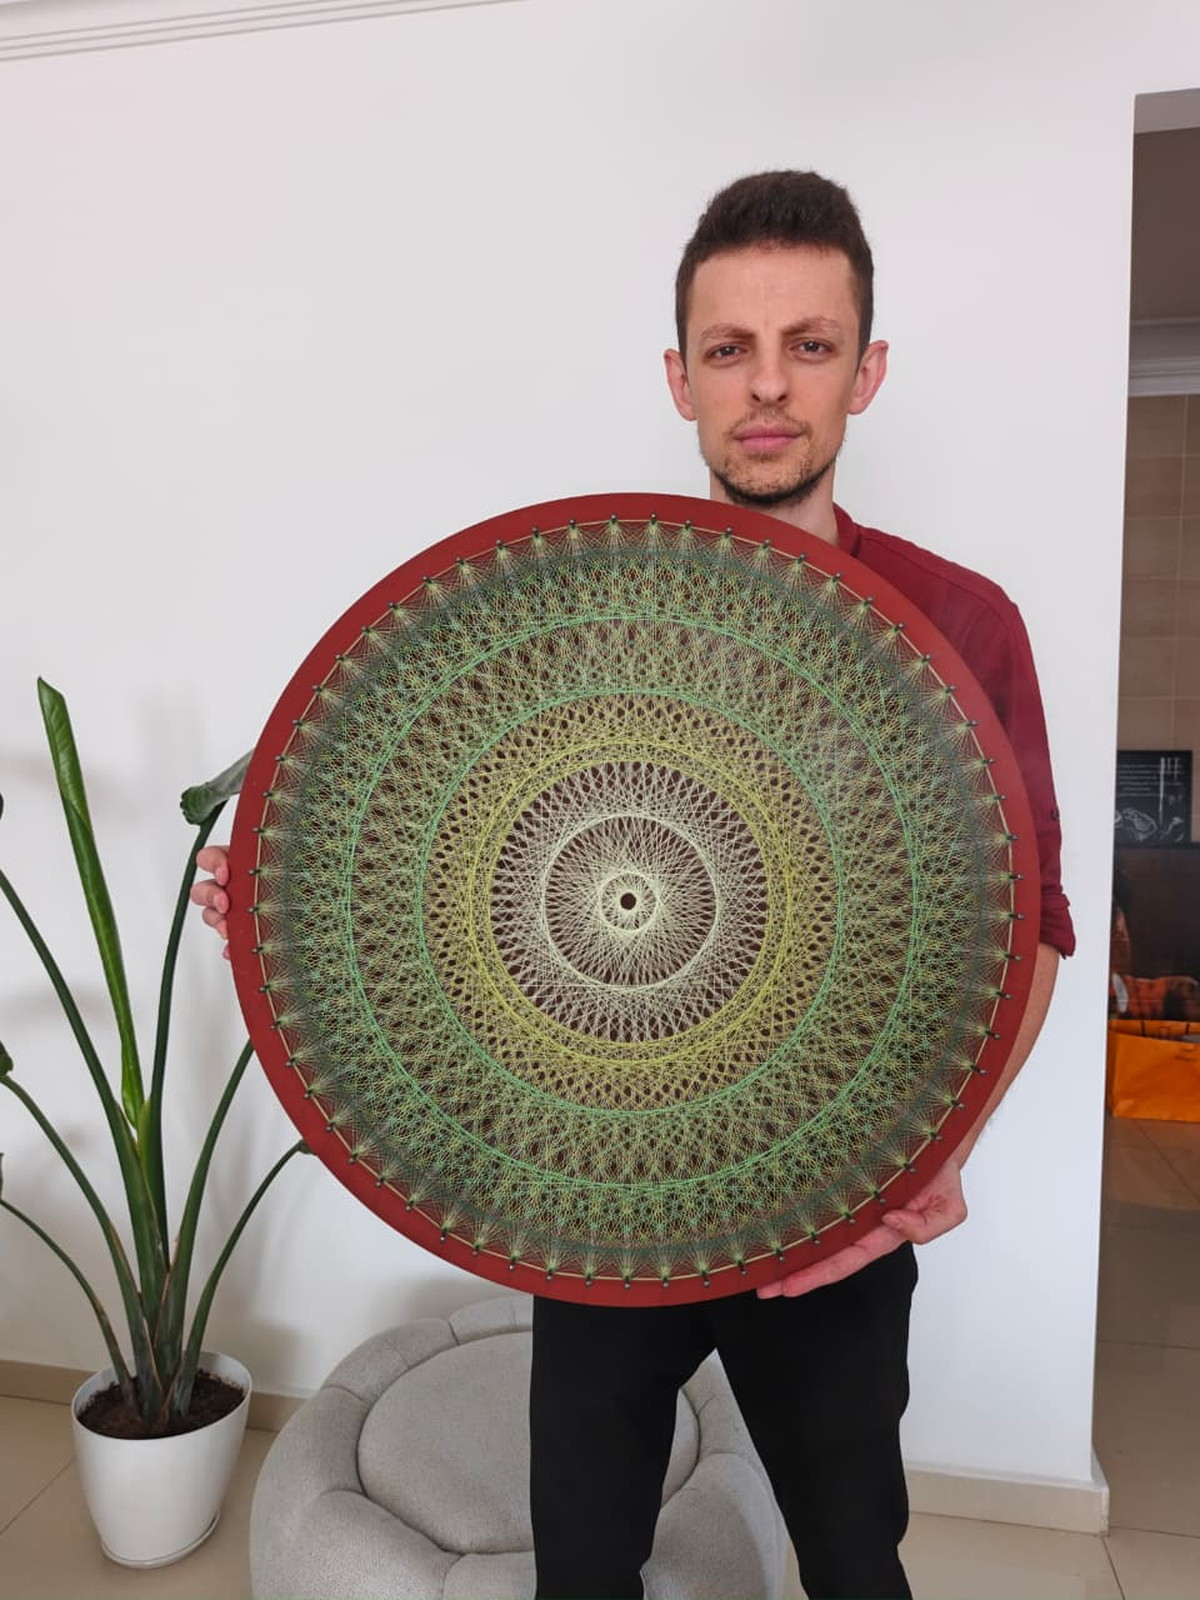
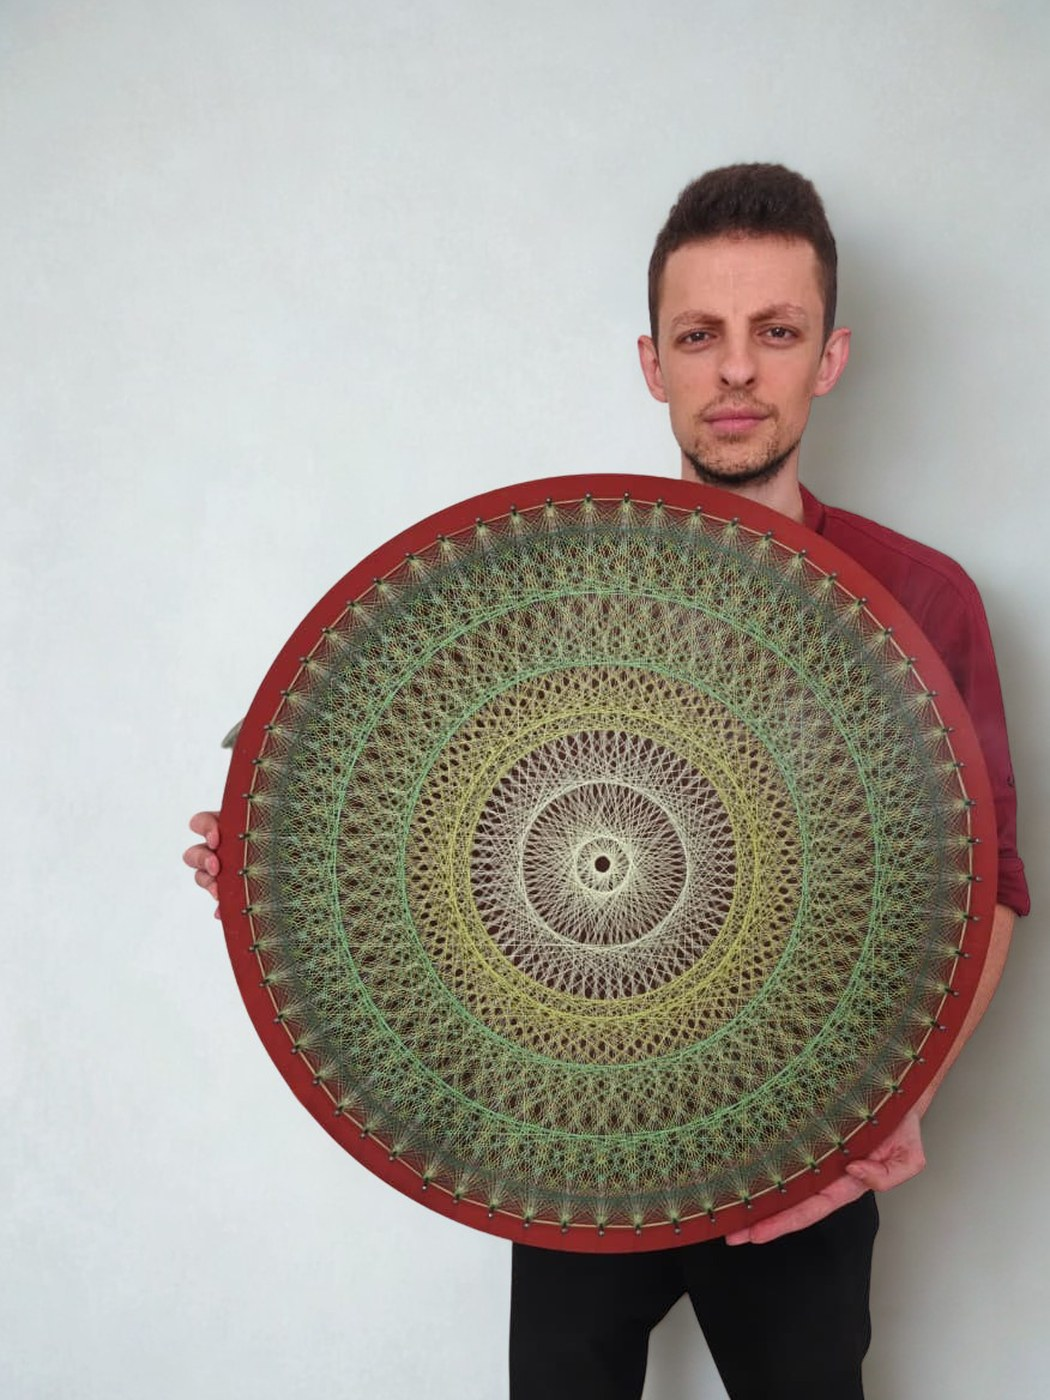
fixed works

diff --git a/index.html b/index.html
@@ -168,6 +168,15 @@ h1 em{font-style:italic;color:var(--lav)}
 .tall .core{aspect-ratio:3/4}
 .sq .core{aspect-ratio:1}
 .wide .core{aspect-ratio:16/10}
+/* Works grid, 2026-08-17 (Jad): every tile the same size, all square, two across.
+   LANDMINE, found this session: the three rules directly above are DESCENDANT
+   selectors, but tall/sq/wide sit on the same element as .core, so they have
+   never matched anything anywhere on this site. Every tile was simply taking
+   its source image's own shape, which is why the works grid was ragged. They
+   are left unrepaired on purpose: rewriting them to .core.tall would silently
+   resize the hero, the artist pictures and the catalogue at the same time.
+   The rule below is scoped to the works grid and nothing else. */
+#work .grid .core{aspect-ratio:1}
 figcaption{
   display:flex;justify-content:space-between;align-items:baseline;gap:1rem;
   padding:.85rem .5rem 0; font-size:.79rem; letter-spacing:.1em; text-transform:uppercase; color:var(--muted);
@@ -399,26 +408,26 @@ footer a:hover{color:var(--paper)}
   <div class="wrap">
     <div class="head rv">
       <span class="eyebrow dark">Selected works</span>
-      <h2>Works that <em>found walls</em>.</h2>
+      <h2>Works from the <em>studio</em>.</h2>
       <p class="sub">Each work is wound entirely by hand around nails set into the frame of a panel. A single-colour work is one unbroken thread from the first nail to the last; every additional colour adds a thread. Size, shape, palette and frame finish are determined at commission.</p>
     </div>
     <div class="grid">
-      <figure class="c7 rv"><div class="shell"><div class="core wide"><img loading="lazy" decoding="async" src="img/g1.jpg" alt="Yellow starburst string art on purple"></div></div>
-        <figcaption><b>Solar Bloom</b><span class="sold">Private collection</span></figcaption></figure>
-      <figure class="c5 rv"><div class="shell"><div class="core wide"><img loading="lazy" decoding="async" src="img/g2.jpg" alt="Purple and amber mandala string art"></div></div>
+      <figure class="c6 rv"><div class="shell"><div class="core sq"><img loading="lazy" decoding="async" src="img/g1.jpg" alt="Yellow starburst string art on purple"></div></div>
+        <figcaption><b>Solar Bloom</b><span class="sold">98 cm &middot; Private collection</span></figcaption></figure>
+      <figure class="c6 rv"><div class="shell"><div class="core sq"><img loading="lazy" decoding="async" src="img/g2.jpg" alt="Purple and amber mandala string art"></div></div>
         <figcaption><b>Purple Dawn</b><span class="sold">98 cm &middot; Artist's collection</span></figcaption></figure>
-      <figure class="c5 rv"><div class="shell"><div class="core sq"><img loading="lazy" decoding="async" src="img/g3.jpg" alt="Dense monochrome silver string art"></div></div>
+      <figure class="c6 rv"><div class="shell"><div class="core sq"><img loading="lazy" decoding="async" src="img/g3.jpg" alt="Dense monochrome silver string art"></div></div>
         <figcaption><b>Interstellar</b><span class="sold">85 cm &middot; Private collection</span></figcaption></figure>
-      <figure class="c7 rv"><div class="shell"><div class="core sq"><img loading="lazy" decoding="async" src="img/g4.jpg" alt="Deep green string art"></div></div>
+      <figure class="c6 rv"><div class="shell"><div class="core sq"><img loading="lazy" decoding="async" src="img/g4.jpg" alt="Deep green string art"></div></div>
         <figcaption><b>Emerald Ripple</b><span class="sold">120 cm &middot; Private collection</span></figcaption></figure>
-      <figure class="c4 rv"><div class="shell"><div class="core tall"><img loading="lazy" decoding="async" src="img/g5.jpg" alt="Lilac Vortex, all-purple string art"></div></div>
+      <figure class="c6 rv"><div class="shell"><div class="core sq"><img loading="lazy" decoding="async" src="img/g5.jpg" alt="Lilac Vortex, all-purple string art"></div></div>
         <figcaption><b>Lilac Vortex</b><span class="sold">76 cm &middot; Available</span></figcaption></figure>
-      <figure class="c4 rv"><div class="shell"><div class="core tall"><img loading="lazy" decoding="async" src="img/g6.jpg" alt="Blue petal-pattern string art"></div></div>
+      <figure class="c6 rv"><div class="shell"><div class="core sq"><img loading="lazy" decoding="async" src="img/g6.jpg" alt="Blue petal-pattern string art"></div></div>
         <figcaption><b>Blue Meridian</b><span class="sold">75 cm &middot; Private collection</span></figcaption></figure>
-      <figure class="c4 rv"><div class="shell"><div class="core tall"><img loading="lazy" decoding="async" src="img/g7.jpg" alt="Jungle Halo, string art in shades of green on a deep burgundy frame"></div></div>
+      <figure class="c6 rv"><div class="shell"><div class="core sq"><img loading="lazy" decoding="async" src="img/g7.jpg" alt="Jungle Halo, string art in shades of green on a deep burgundy frame"></div></div>
         <figcaption><b>Jungle Halo</b><span class="sold">63 cm &middot; Available</span></figcaption></figure>
-      <figure class="c4 rv"><div class="shell"><div class="core tall"><img loading="lazy" decoding="async" src="img/room.jpg" alt="Emerald Ripple hanging in a Beirut interior"></div></div>
-        <figcaption><b>Emerald Ripple</b><span class="sold">Installed &middot; Beirut</span></figcaption></figure>
+      <figure class="c6 rv"><div class="shell"><div class="core sq"><img loading="lazy" decoding="async" src="img/g8.jpg" alt="Cosmic Spiral, string art in burgundy, blue, orange and white"></div></div>
+        <figcaption><b>Cosmic Spiral</b><span class="sold">75 cm &middot; Private collection</span></figcaption></figure>
     </div>
   </div>
 </section>
